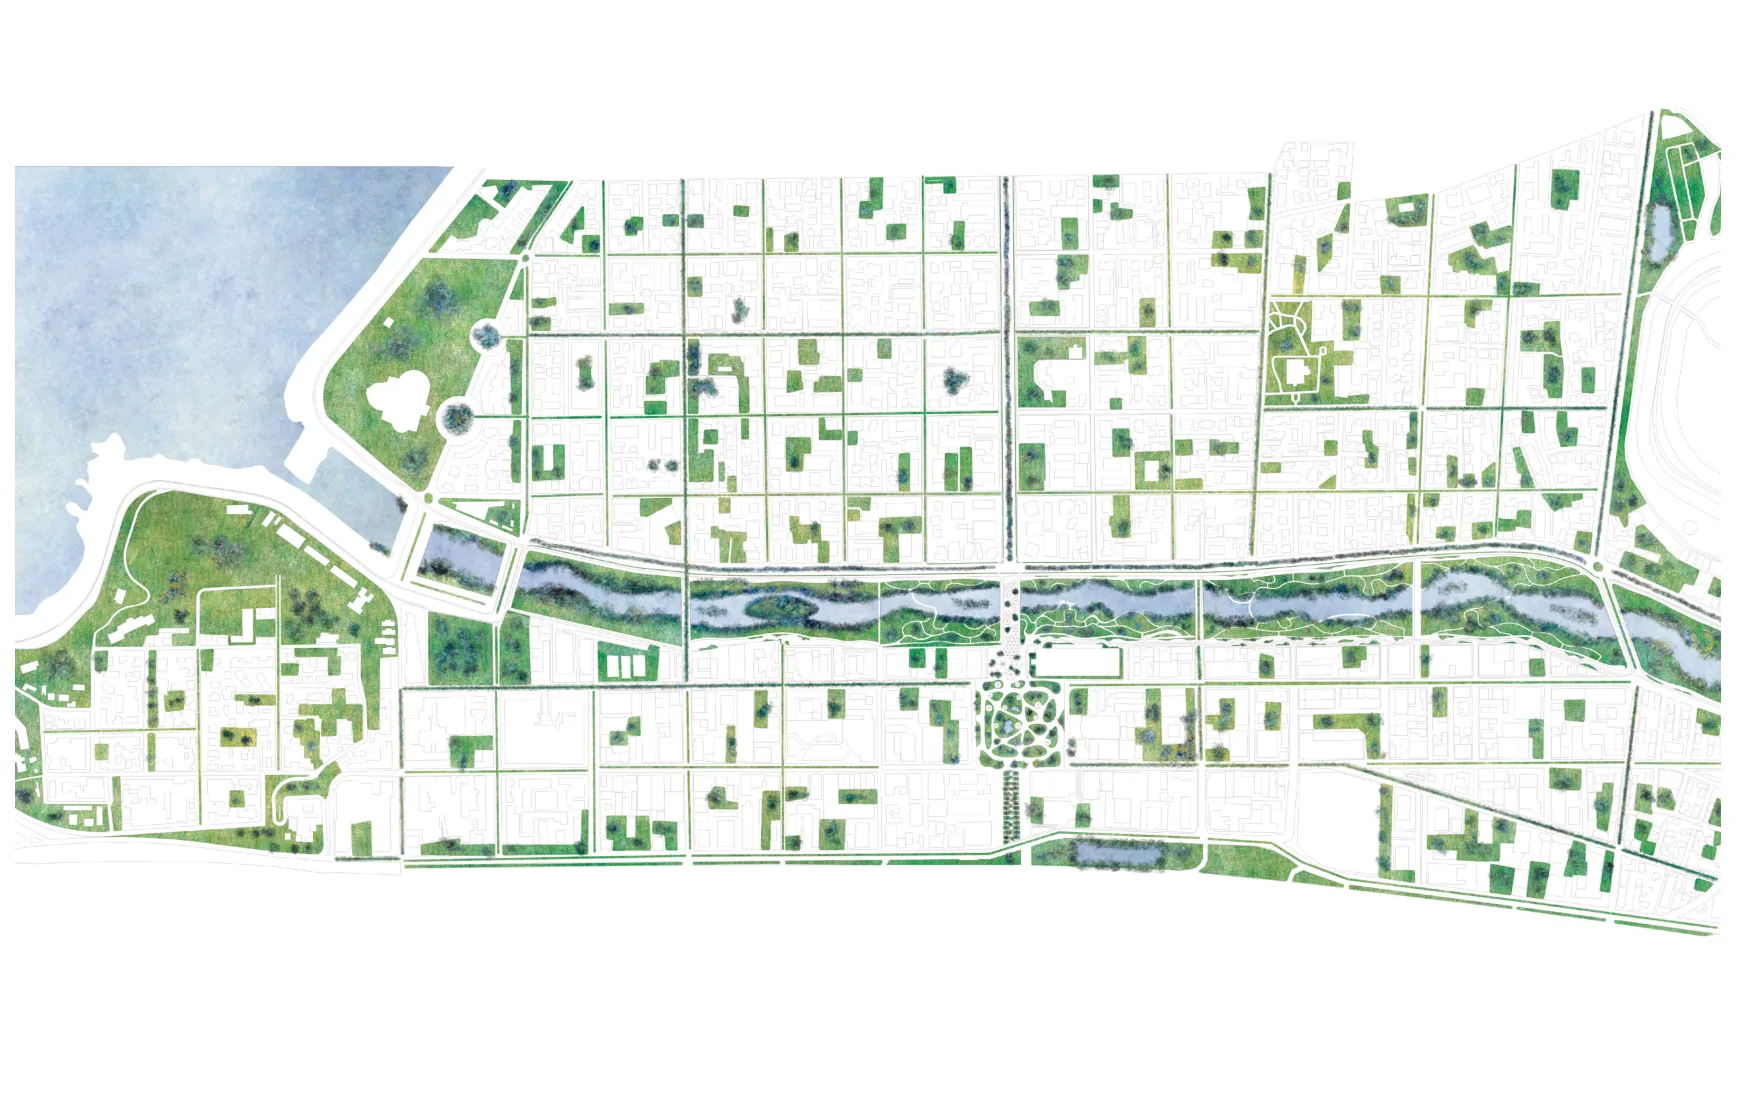
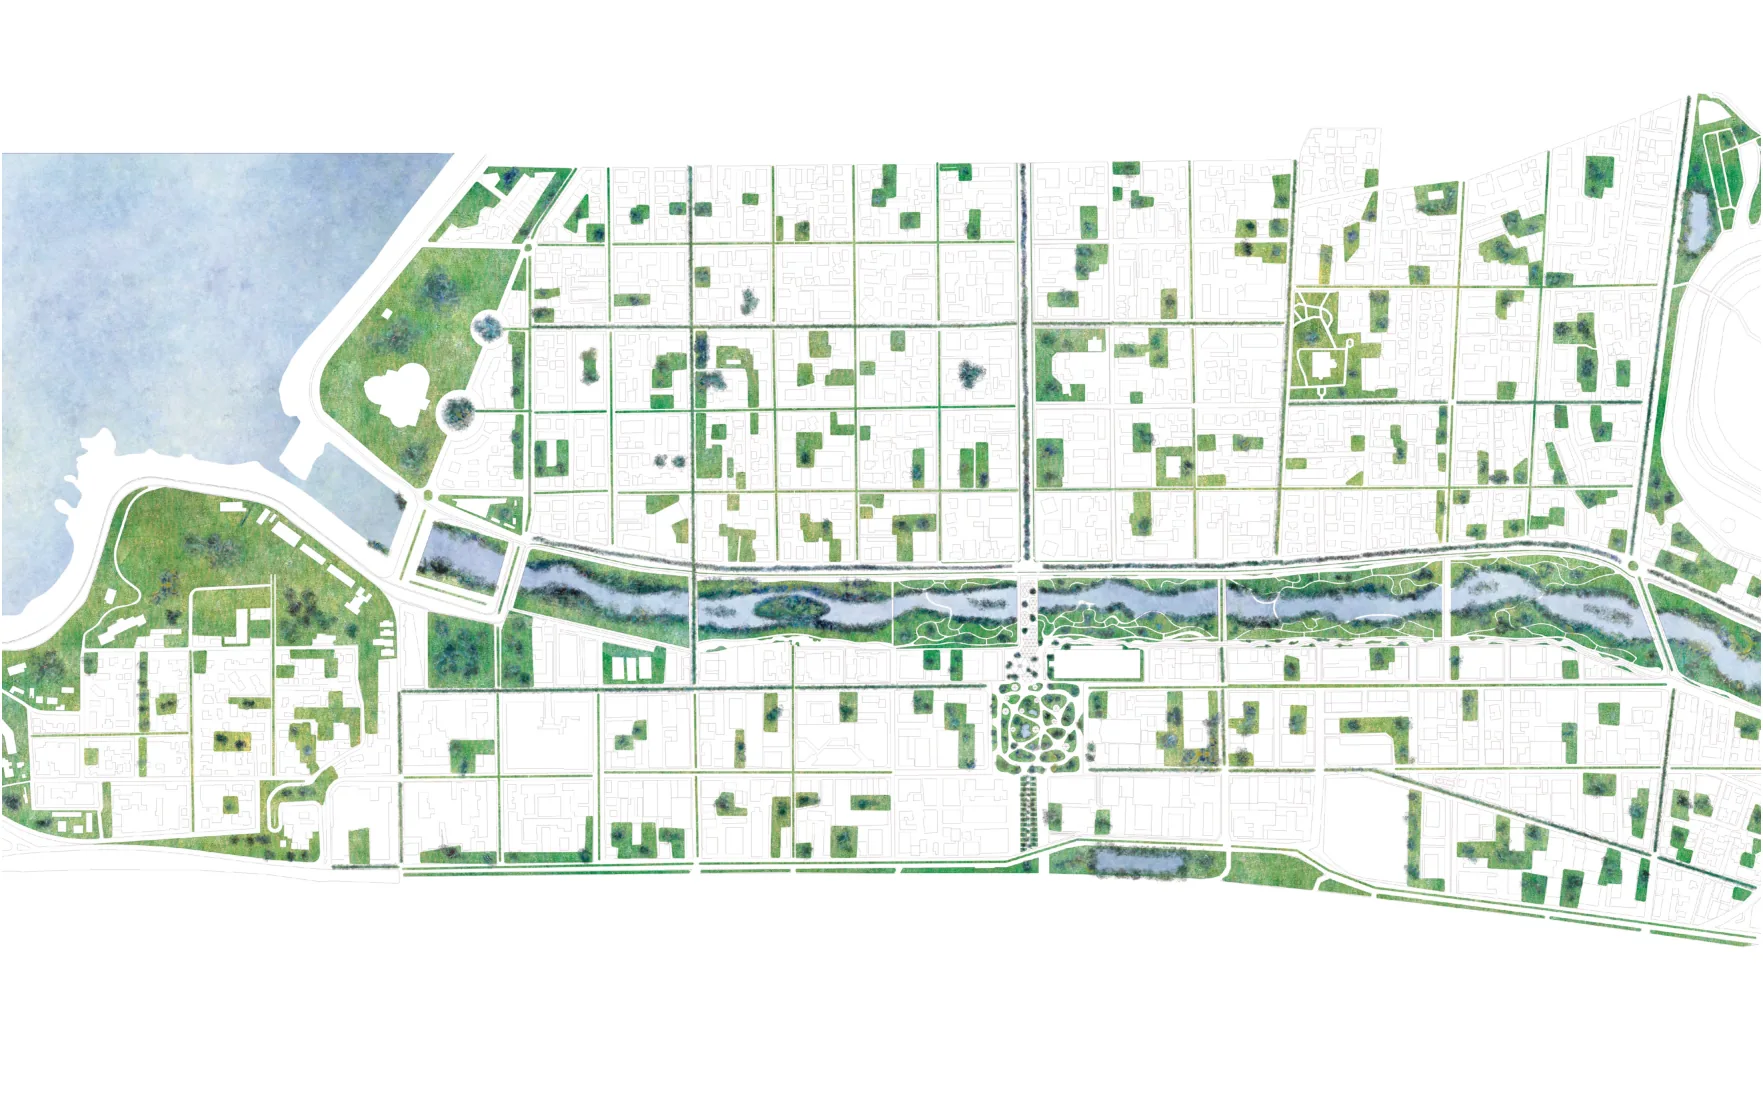
Saca el margen blanco de las piezas de Rewoven City
Los recortes iban a la caja de la lamina y no a la del contenido, asi
que cada imagen quedaba con un marco blanco de unos siete puntos por
lado. Ahora se recorta a la caja real: las fotos y los planos llegan
al borde. Los dibujos de linea se quedan con la caja de la lamina,
porque ahi el blanco es el papel y la serie necesita el mismo encuadre
para que el dibujo se vea crecer.

Changed region(s): [[0.0, 0.0926, 1.0, 0.8647]]

diff --git a/index.html b/index.html
@@ -620,7 +620,7 @@
         </div>
 
         <button class="box box-hero" aria-expanded="false">
-          <img src="img/tum-2/00-portada.webp" width="1742" height="1101"
+          <img src="img/tum-2/00-portada.webp" width="1760" height="1101"
                alt="La feria bajo la cubierta de colores del mercado puente">
         </button>
 
@@ -629,15 +629,15 @@
         </div>
 
         <figure class="box box-img box-extra">
-          <img src="img/tum-2/01-cauce.webp" width="1742" height="1101" loading="lazy"
+          <img src="img/tum-2/01-cauce.webp" width="1768" height="1101" loading="lazy"
                alt="Cuatro cortes del cauce del estero entre 1933 y 2023">
           <figcaption class="label"><span class="es">el cauce en cuatro tiempos — 1933, 1973, hoy y la crecida de junio de 2023</span><span class="en">the riverbed in four moments — 1933, 1973, today, and the June 2023 flood</span></figcaption>
         </figure>
 
-        <figure class="box box-img box-set box-extra" style="--set-ar: 1.582">
+        <figure class="box box-img box-set box-extra" style="--set-ar: 1.415">
           <div class="set-frame">
-            <img src="img/tum-2/02-trafico-1.webp" width="1742" height="1101" loading="lazy" alt="Plano de tráfico propuesto, con el eje liberado">
-            <img src="img/tum-2/02-trafico-2.webp" width="1742" height="1101" loading="lazy" alt="Plano de tráfico en la situación actual">
+            <img src="img/tum-2/02-trafico-1.webp" width="1558" height="1101" loading="lazy" alt="Plano de tráfico propuesto, con el eje liberado">
+            <img src="img/tum-2/02-trafico-2.webp" width="1558" height="1101" loading="lazy" alt="Plano de tráfico en la situación actual">
           </div>
           <figcaption class="set-bar">
             <button class="set-btn set-prev" aria-label="Anterior">←</button>
@@ -650,10 +650,10 @@
           </figcaption>
         </figure>
 
-        <figure class="box box-img box-set box-extra" style="--set-ar: 1.582">
+        <figure class="box box-img box-set box-extra" style="--set-ar: 1.601">
           <div class="set-frame">
-            <img src="img/tum-2/03-planta-1.webp" width="1742" height="1101" loading="lazy" alt="Planta de techumbres del conjunto">
-            <img src="img/tum-2/03-planta-2.webp" width="1742" height="1101" loading="lazy" alt="Planta general del conjunto a nivel de suelo">
+            <img src="img/tum-2/03-planta-1.webp" width="1763" height="1101" loading="lazy" alt="Planta de techumbres del conjunto">
+            <img src="img/tum-2/03-planta-2.webp" width="1763" height="1101" loading="lazy" alt="Planta general del conjunto a nivel de suelo">
           </div>
           <figcaption class="set-bar">
             <button class="set-btn set-prev" aria-label="Anterior">←</button>
@@ -670,9 +670,9 @@
           <p><span class="es">La feria se traslada al eje central de la ciudad y se vuelve tres lugares —<b>el mercado puente, el café y la plaza</b>— hechos con un mismo módulo hexagonal de madera y textil. Entre uno y otro el suelo se abre para que el agua vuelva a infiltrarse.</span><span class="en">The market moves to the city's central axis and becomes three places —<b>the bridge market, the café and the plaza</b>— built from one hexagonal module of timber and textile. Between them the ground is opened so the water can soak in again.</span></p>
         </div>
 
-        <figure class="box box-img box-set box-extra" style="--set-ar: 1.582">
+        <figure class="box box-img box-set box-extra" style="--set-ar: 1.601">
           <div class="set-frame">
-            <img src="img/tum-2/04-estructura-1.webp" width="1742" height="1101" loading="lazy" alt="Corte de detalle dibujado a la acuarela con gente bajo la cubierta">
+            <img src="img/tum-2/04-estructura-1.webp" width="1763" height="1101" loading="lazy" alt="Corte de detalle dibujado a la acuarela con gente bajo la cubierta">
             <img src="img/tum-2/04-estructura-2.webp" width="1742" height="1101" loading="lazy" alt="La base octogonal del módulo">
             <img src="img/tum-2/04-estructura-3.webp" width="1742" height="1101" loading="lazy" alt="Los pilares de madera sobre la base">
             <img src="img/tum-2/04-estructura-4.webp" width="1742" height="1101" loading="lazy" alt="La estructura radial del techo apoyada en los pilares">
@@ -694,12 +694,12 @@
           </figcaption>
         </figure>
 
-        <figure class="box box-img box-set box-extra" style="--set-ar: 1.582">
+        <figure class="box box-img box-set box-extra" style="--set-ar: 1.601">
           <div class="set-frame">
-            <img src="img/tum-2/05-verde-1.webp" width="1742" height="1101" loading="lazy" alt="Plan verde a futuro con toda la ciudad arbolada">
-            <img src="img/tum-2/05-verde-2.webp" width="1742" height="1101" loading="lazy" alt="Plan verde a futuro con el verde entrando en las manzanas">
-            <img src="img/tum-2/05-verde-3.webp" width="1742" height="1101" loading="lazy" alt="Plan verde con el parque fluvial sobre el cauce">
-            <img src="img/tum-2/05-verde-4.webp" width="1742" height="1101" loading="lazy" alt="Vista aérea del conjunto sobre el estero">
+            <img src="img/tum-2/05-verde-1.webp" width="1763" height="1101" loading="lazy" alt="Plan verde a futuro con toda la ciudad arbolada">
+            <img src="img/tum-2/05-verde-2.webp" width="1763" height="1101" loading="lazy" alt="Plan verde a futuro con el verde entrando en las manzanas">
+            <img src="img/tum-2/05-verde-3.webp" width="1763" height="1101" loading="lazy" alt="Plan verde con el parque fluvial sobre el cauce">
+            <img src="img/tum-2/05-verde-4.webp" width="1763" height="1101" loading="lazy" alt="Vista aérea del conjunto sobre el estero">
           </div>
           <figcaption class="set-bar">
             <button class="set-btn set-prev" aria-label="Anterior">←</button>
@@ -738,14 +738,14 @@
           </figcaption>
         </figure>
 
-        <figure class="box box-img box-set box-extra" style="--set-ar: 1.582">
+        <figure class="box box-img box-set box-extra" style="--set-ar: 1.598">
           <div class="set-frame">
-            <img src="img/tum-2/07-zoom-1.webp" width="1742" height="1101" loading="lazy" alt="Planta ampliada del mercado puente">
-            <img src="img/tum-2/07-zoom-2.webp" width="1742" height="1101" loading="lazy" alt="Planta ampliada del café">
-            <img src="img/tum-2/07-zoom-3.webp" width="1742" height="1101" loading="lazy" alt="Planta del café con la textura del suelo">
-            <img src="img/tum-2/07-zoom-4.webp" width="1742" height="1101" loading="lazy" alt="Corte perspectivado de la plaza, ampliado">
-            <img src="img/tum-2/07-zoom-5.webp" width="1742" height="1101" loading="lazy" alt="Corte perspectivado del mercado puente, ampliado">
-            <img src="img/tum-2/07-zoom-6.webp" width="1742" height="1101" loading="lazy" alt="Corte perspectivado del café, ampliado">
+            <img src="img/tum-2/07-zoom-1.webp" width="1759" height="1101" loading="lazy" alt="Planta ampliada del mercado puente">
+            <img src="img/tum-2/07-zoom-2.webp" width="1759" height="1101" loading="lazy" alt="Planta ampliada del café">
+            <img src="img/tum-2/07-zoom-3.webp" width="1759" height="1101" loading="lazy" alt="Planta del café con la textura del suelo">
+            <img src="img/tum-2/07-zoom-4.webp" width="1759" height="1101" loading="lazy" alt="Corte perspectivado de la plaza, ampliado">
+            <img src="img/tum-2/07-zoom-5.webp" width="1759" height="1101" loading="lazy" alt="Corte perspectivado del mercado puente, ampliado">
+            <img src="img/tum-2/07-zoom-6.webp" width="1759" height="1101" loading="lazy" alt="Corte perspectivado del café, ampliado">
           </div>
           <figcaption class="set-bar">
             <button class="set-btn set-prev" aria-label="Anterior">←</button>
@@ -762,11 +762,11 @@
           </figcaption>
         </figure>
 
-        <figure class="box box-img box-set box-extra" style="--set-ar: 1.495">
+        <figure class="box box-img box-set box-extra" style="--set-ar: 1.505">
           <div class="set-frame">
-            <img src="img/tum-2/08-maqueta-1.webp" width="1645" height="1100" loading="lazy" alt="Maqueta 1:500 con el parque, la plaza y el mercado sobre el puente">
-            <img src="img/tum-2/08-maqueta-2.webp" width="1642" height="1100" loading="lazy" alt="Maqueta 1:500 vista sobre el cauce">
-            <img src="img/tum-2/08-maqueta-3.webp" width="1642" height="1100" loading="lazy" alt="Maqueta 1:1 del encuentro de madera con su placa metálica">
+            <img src="img/tum-2/08-maqueta-1.webp" width="1656" height="1100" loading="lazy" alt="Maqueta 1:500 con el parque, la plaza y el mercado sobre el puente">
+            <img src="img/tum-2/08-maqueta-2.webp" width="1652" height="1100" loading="lazy" alt="Maqueta 1:500 vista sobre el cauce">
+            <img src="img/tum-2/08-maqueta-3.webp" width="1653" height="1100" loading="lazy" alt="Maqueta 1:1 del encuentro de madera con su placa metálica">
           </div>
           <figcaption class="set-bar">
             <button class="set-btn set-prev" aria-label="Anterior">←</button>
@@ -780,11 +780,11 @@
           </figcaption>
         </figure>
 
-        <figure class="box box-img box-set box-extra" style="--set-ar: 1.582">
+        <figure class="box box-img box-set box-extra" style="--set-ar: 1.598">
           <div class="set-frame">
-            <img src="img/tum-2/09-cierre-1.webp" width="1742" height="1101" loading="lazy" alt="La ribera del estero al atardecer, con gente sentada en el pasto">
-            <img src="img/tum-2/09-cierre-2.webp" width="1742" height="1101" loading="lazy" alt="El estero con agua y el mercado puente al fondo">
-            <img src="img/tum-2/09-cierre-3.webp" width="1742" height="1101" loading="lazy" alt="Vista aérea del conjunto sobre el estero">
+            <img src="img/tum-2/09-cierre-1.webp" width="1759" height="1101" loading="lazy" alt="La ribera del estero al atardecer, con gente sentada en el pasto">
+            <img src="img/tum-2/09-cierre-2.webp" width="1759" height="1101" loading="lazy" alt="El estero con agua y el mercado puente al fondo">
+            <img src="img/tum-2/09-cierre-3.webp" width="1759" height="1101" loading="lazy" alt="Vista aérea del conjunto sobre el estero">
           </div>
           <figcaption class="set-bar">
             <button class="set-btn set-prev" aria-label="Anterior">←</button>
